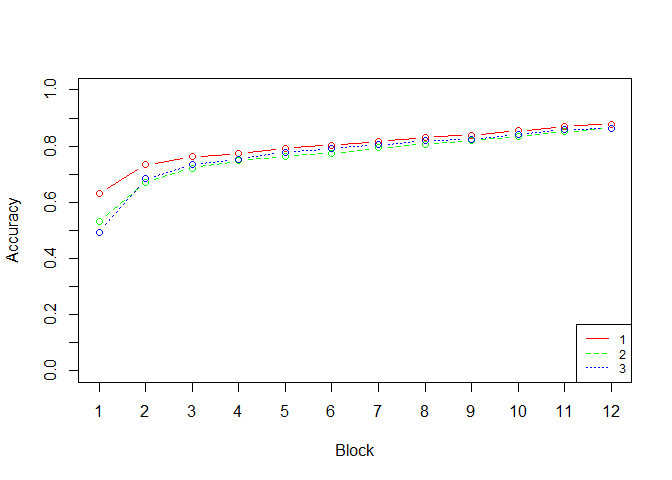
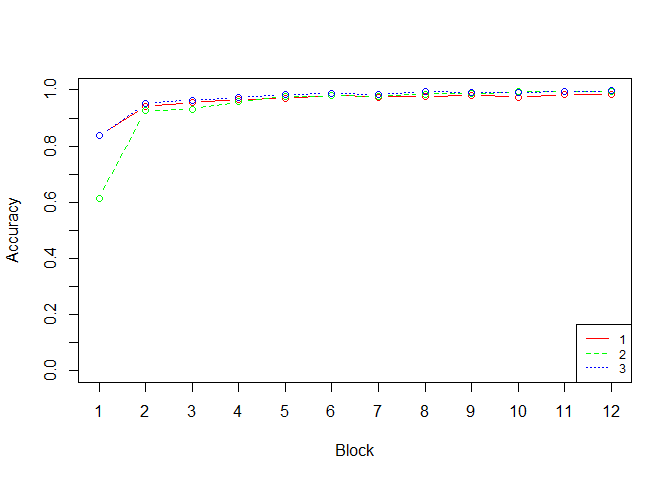
prepping update...

diff --git a/README.md b/README.md
@@ -82,13 +82,13 @@ trn_result <- cbind(tr, round(diva_model$out, 4))
 tail(trn_result)
 ```
 
-    ##       ctrl trial block example f1 f2 f3 f4 t1 t2     o1     o2
-    ## [91,]    0    91    12       6 -1 -1  1 -1 -1  1 0.0668 0.9332
-    ## [92,]    0    92    12       7 -1  1 -1 -1 -1  1 0.1729 0.8271
-    ## [93,]    0    93    12       5 -1 -1 -1 -1 -1  1 0.0581 0.9419
-    ## [94,]    0    94    12       8  1 -1 -1 -1 -1  1 0.2611 0.7389
-    ## [95,]    0    95    12       3  1 -1  1  1  1 -1 0.8484 0.1516
-    ## [96,]    0    96    12       2  1  1 -1  1  1 -1 0.8648 0.1352
+    ##       ctrl trial blk example x1 x2 x3 x4 t1 t2     o1     o2
+    ## [91,]    0    91  12       2  1  1 -1  1  1 -1 1.0000 0.0000
+    ## [92,]    0    92  12       4 -1  1  1  1  1 -1 0.9992 0.0008
+    ## [93,]    0    93  12       3  1 -1  1  1  1 -1 0.9973 0.0027
+    ## [94,]    0    94  12       7 -1  1 -1 -1 -1  1 0.0000 1.0000
+    ## [95,]    0    95  12       8  1 -1 -1 -1 -1  1 0.0005 0.9995
+    ## [96,]    0    96  12       6 -1 -1  1 -1 -1  1 0.0000 1.0000
 
 ### Evaluating performance
 
@@ -98,8 +98,8 @@ Use `response_probs` to extract the response probabilities for the target catego
 response_probs(tr, diva_model$out, blocks = TRUE)
 ```
 
-    ##  [1] 0.5802214 0.7024412 0.7406033 0.7512773 0.7673849 0.7743643 0.7860335
-    ##  [8] 0.8025324 0.8039298 0.8218126 0.8365848 0.8499758
+    ##  [1] 0.7561462 0.9372188 0.9514638 0.9502348 0.9754091 0.9816299 0.9768297
+    ##  [8] 0.9940707 0.9915841 0.9967900 0.9980584 0.9994837
 
 ### Plotting
 
@@ -119,3 +119,7 @@ plot_training(model_list_resp_probs)
 ```
 
 ![](README_files/figure-markdown_github/unnamed-chunk-9-1.png)
+
+### Advanced Topics
+
+#### Examining the state of the model across training
